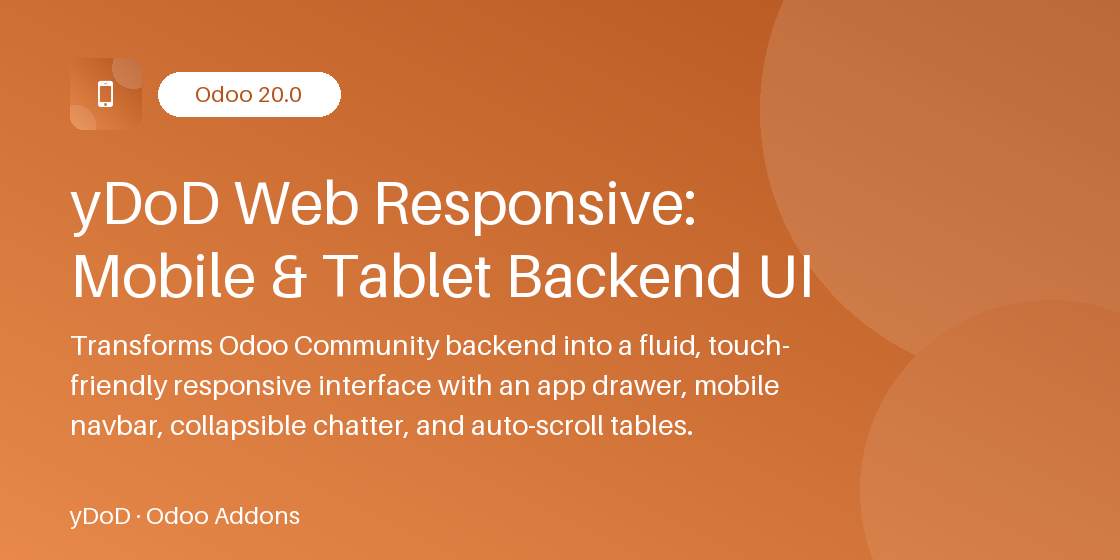
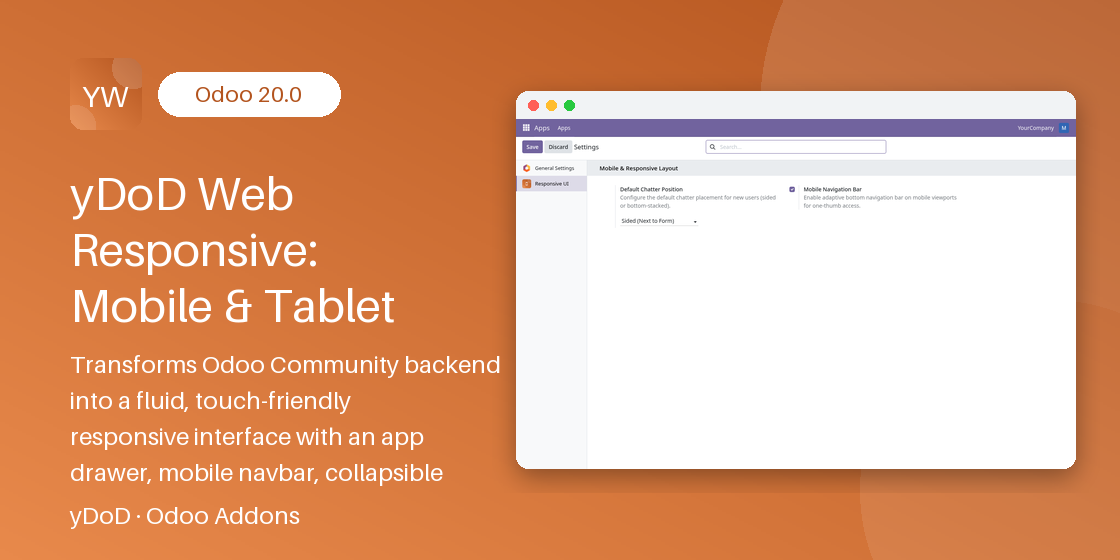
Store visuals: animated demo as the Odoo Apps cover

diff --git a/ydod_backend_responsive/static/description/index.html b/ydod_backend_responsive/static/description/index.html
@@ -16,6 +16,26 @@
             <img src="banner.png" alt="yDoD Web Responsive Banner" class="img-fluid rounded shadow-lg" style="max-width: 100%; border: 3px solid rgba(255, 255, 255, 0.2);"/>
         </div>
     </section>
+<!-- oaa:showcase:start -->
+<section style="padding:56px 16px;background:linear-gradient(180deg,#B3541E14 0%,#ffffff 70%)">
+  <div style="max-width:1100px;margin:0 auto;text-align:center">
+    <span style="display:inline-block;padding:6px 16px;border-radius:999px;background:#B3541E;color:#fff;font-weight:700;font-size:13px;letter-spacing:.08em">SEE IT IN ACTION</span>
+    <h2 style="font-size:32px;font-weight:800;color:#1f2937;margin:16px 0 28px">yDoD Web Responsive: Mobile &amp; Tablet Backend UI at work</h2>
+    <div style="max-width:1000px;margin:0 auto;border-radius:20px;overflow:hidden;box-shadow:0 22px 60px rgba(15,23,42,.22)">
+      <img src="demo.gif" alt="yDoD Web Responsive: Mobile &amp; Tablet Backend UI animated demo" style="width:100%;display:block"/>
+    </div>
+    <div class="row" style="margin-top:32px">
+      <div class="col-12" style="padding:12px">
+        <div style="height:100%;background:#fff;border:1px solid #eef0f4;border-radius:16px;overflow:hidden;box-shadow:0 10px 30px rgba(15,23,42,.10)">
+          <img src="screenshot_1.png" alt="Responsive Settings" style="width:100%;display:block"/>
+          <div style="padding:14px 18px;font-size:15px;color:#334155;text-align:left"><span style="display:inline-block;width:26px;height:26px;line-height:26px;border-radius:13px;background:#B3541E;color:#fff;text-align:center;font-weight:700;font-size:13px;margin-right:10px">1</span>Responsive Settings</div>
+        </div>
+      </div>
+    </div>
+  </div>
+</section>
+<!-- oaa:showcase:end -->
+
 
     <!-- KEY FEATURES SECTION -->
     <section class="py-4" style="margin-bottom: 32px;">

diff --git a/ydod_backend_responsive/__manifest__.py b/ydod_backend_responsive/__manifest__.py
@@ -51,7 +51,9 @@
                                   'ydod_backend_responsive/static/src/components/bottom_navbar/bottom_navbar.xml',
                                   'ydod_backend_responsive/static/src/components/chatter/chatter_patch.js',
                                   'ydod_backend_responsive/static/src/components/chatter/chatter_patch.xml']},
-    'images': ['static/description/banner.png'],
+    'images': [   'static/description/demo.gif',
+        'static/description/banner.png',
+        'static/description/screenshot_1.png'],
     'installable': True,
     'application': False,
 }
